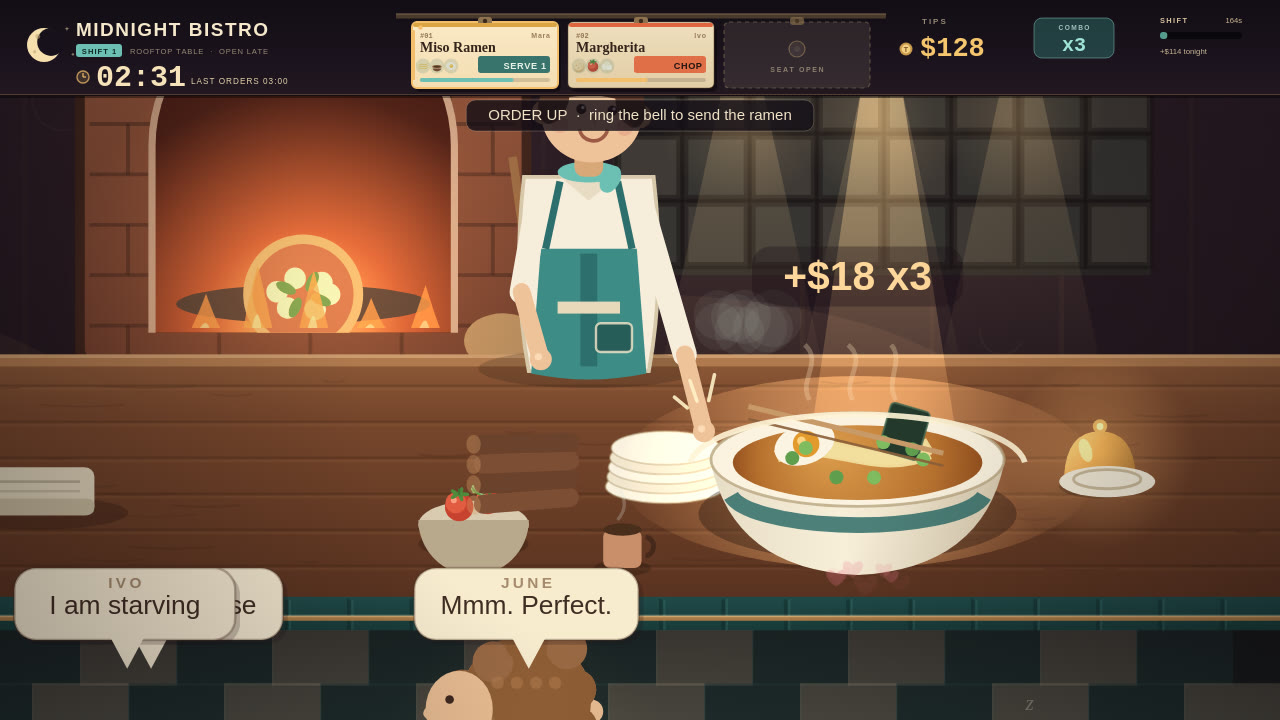
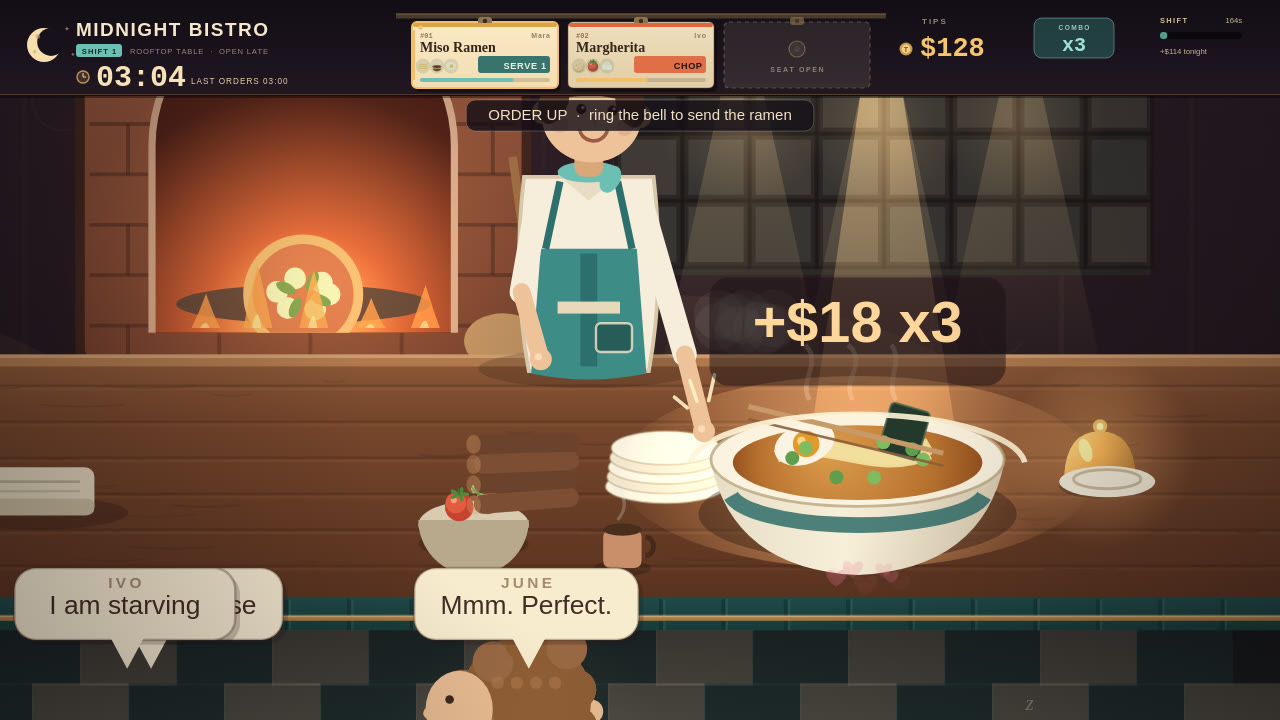
Cover: the ladle is still saucing the pizza, and the shift clock advances across the four shots

Changed region(s): [[0.5312, 0.3361, 0.8125, 0.55], [0.0938, 0.0917, 0.1562, 0.1222]]

diff --git a/game/src/render.js b/game/src/render.js
@@ -1071,49 +1071,57 @@ function drawPizza(ctx, x, y, r, game) {
   // a few basil bits waiting beside it
   drawIngredient(ctx, 'basil', x + r * 0.9, y - r * 0.5, 6);
   drawIngredient(ctx, 'basil', x - r * 0.85, y - r * 0.45, 5);
-  // the cover catches the pizza half-built: one quarter is sauce waiting for cheese, a slice is on its way down
+  // the cover catches the pizza half-built: the lower-right quarter is sauce only, and the ladle is still over it
   if (game.shot === 'cover') {
-    // one quarter is still bare dough: the sauce has not been spread there yet
     ctx.save();
     ctx.beginPath();
     ctx.moveTo(x, y);
-    ctx.ellipse(x, y, r * 0.78, r * 0.7, 0, Math.PI * 1.46, Math.PI * 1.96);
+    ctx.ellipse(x, y, r * 0.78, r * 0.7, 0, 0, Math.PI * 0.5);
     ctx.closePath();
     ctx.clip();
-    const raw = ctx.createRadialGradient(x + r * 0.1, y - r * 0.3, 2, x, y, r);
-    raw.addColorStop(0, '#f2d6a0');
-    raw.addColorStop(0.7, '#e6c184');
-    raw.addColorStop(1, '#d8ae70');
+    const raw = ctx.createRadialGradient(x + r * 0.1, y + r * 0.1, 2, x, y, r);
+    raw.addColorStop(0, '#dd6a4f');
+    raw.addColorStop(1, '#b8432e');
     ctx.fillStyle = raw;
     ctx.fillRect(x - r, y - r, r * 2, r * 2);
-    // flour dust on the bare dough
-    ctx.fillStyle = withAlpha('#fff6e0', 0.5);
-    for (let i = 0; i < 7; i++) {
-      const a = -1.35 + i * 0.14;
-      circle(ctx, x + Math.cos(a) * r * (0.3 + (i % 3) * 0.12), y + Math.sin(a) * r * (0.26 + (i % 2) * 0.1), 0.9, withAlpha('#fff6e0', 0.45));
-    }
     ctx.restore();
-    // a cheese torn and a basil leaf dropping onto the bare quarter
-    const drops = [
-      [x + r * 0.3, y - r * 0.3, '#fbf5e6', 0.15, -1.15],
-      [x + r * 0.47, y - r * 0.08, '#5f9945', 0.11, -0.7],
-    ];
-    for (const [tx, ty, col, rad, rot] of drops) {
-      ctx.save();
-      ctx.strokeStyle = withAlpha('#f6e8cb', 0.55);
-      ctx.lineWidth = 1.3;
-      ctx.beginPath();
-      ctx.moveTo(tx, ty - r * 0.34);
-      ctx.lineTo(tx - 1, ty - r * 0.16);
-      ctx.stroke();
-      ctx.translate(tx, ty);
-      ctx.rotate(rot);
-      ctx.fillStyle = col;
-      ctx.beginPath();
-      ctx.ellipse(0, 0, r * rad, r * rad * 0.72, 0, 0, Math.PI * 2);
-      ctx.fill();
-      ctx.restore();
-    }
+    // the ladle, still pouring the last of the sauce into the bare quarter
+    ctx.save();
+    ctx.translate(x + r * 0.5, y + r * 0.02);
+    ctx.rotate(0.5);
+    ctx.strokeStyle = '#7d532f';
+    ctx.lineWidth = 4.2;
+    ctx.lineCap = 'round';
+    ctx.beginPath();
+    ctx.moveTo(r * 0.62, -r * 0.58);
+    ctx.lineTo(r * 0.14, -r * 0.08);
+    ctx.stroke();
+    ctx.strokeStyle = withAlpha('#c99a63', 0.75);
+    ctx.lineWidth = 1.4;
+    ctx.beginPath();
+    ctx.moveTo(r * 0.6, -r * 0.56);
+    ctx.lineTo(r * 0.16, -r * 0.1);
+    ctx.stroke();
+    ctx.fillStyle = '#9aa3ab';
+    ctx.beginPath();
+    ctx.ellipse(0, 0, r * 0.24, r * 0.13, 0, 0, Math.PI * 2);
+    ctx.fill();
+    ctx.fillStyle = '#c4ccd2';
+    ctx.beginPath();
+    ctx.ellipse(-r * 0.02, -r * 0.02, r * 0.2, r * 0.1, 0, 0, Math.PI * 2);
+    ctx.fill();
+    ctx.fillStyle = '#c9523a';
+    ctx.beginPath();
+    ctx.ellipse(-r * 0.02, -r * 0.01, r * 0.15, r * 0.07, 0, 0, Math.PI * 2);
+    ctx.fill();
+    ctx.fillStyle = '#cf5a3f';
+    ctx.beginPath();
+    ctx.moveTo(-r * 0.1, r * 0.05);
+    ctx.quadraticCurveTo(-r * 0.16, r * 0.3, -r * 0.06, r * 0.42);
+    ctx.quadraticCurveTo(-r * 0.02, r * 0.28, -r * 0.02, r * 0.06);
+    ctx.closePath();
+    ctx.fill();
+    ctx.restore();
   }
   ctx.restore();
 }
@@ -2049,10 +2057,14 @@ function drawPopups(ctx, game) {
     const a = Math.min(1, p.t / 0.5);
     ctx.save();
     ctx.globalAlpha = a;
-    ctx.fillStyle = withAlpha('#1a1114', 0.35);
-    rr(ctx, p.x - 44, p.y - 18, 88, 25, 8);
+    const size = p.size || 17;
+    ctx.font = `700 ${size}px ${FONT.ui}`;
+    const tw = ctx.measureText(p.text).width;
+    const bw = tw + size * 1.5;
+    ctx.fillStyle = withAlpha('#1a1114', 0.5);
+    rr(ctx, p.x - bw / 2, p.y - size - 3, bw, size + 21, 8);
     ctx.fill();
-    text(ctx, p.text, p.x, p.y, 17, p.color, { weight: 700, align: 'center', font: 'ui' });
+    text(ctx, p.text, p.x, p.y, size, p.color, { weight: 700, align: 'center', font: 'ui' });
     ctx.restore();
   }
 }

diff --git a/game/src/shots.js b/game/src/shots.js
@@ -98,7 +98,7 @@ export function stageShot(game, kind, seed = 7) {
     game.camera = createCamera(400, 446, 2.75);
     game.tips = 128;
     game.combo = 3;
-    game.clockMinutes = 185;
+    game.clockMinutes = 172;
     emitFlour(game, 386, 486, 26);
     emitBits(game, 392, 486, '#6ea84f', 7);
     emitSteam(game, 674, 404, 4, 10, { a: 0.13 });
@@ -120,7 +120,7 @@ export function stageShot(game, kind, seed = 7) {
       o0.quality = null;
     }
     game.camera = createCamera(646, 436, 2.7);
-    game.clockMinutes = 176;
+    game.clockMinutes = 178;
     emitSteam(game, 674, 402, 12, 12, { a: 0.2 });
     emitSteam(game, 578, 424, 6, 16, { a: 0.12 });
     emitSpark(game, 566, 440, 8);
@@ -138,9 +138,9 @@ export function stageShot(game, kind, seed = 7) {
     game.combo = 3;
     game.tipsEarned = 114;
     game.served = 3;
-    game.clockMinutes = 151;
+    game.clockMinutes = 184;
     game.lastTip = { amount: 18, mult: 3, t: 2.1, slot: 2 };
-    addPopup(game, '+$18 x3', 1104, 424, '#ffd79a');
+    addPopup(game, '+$18 x3', 1104, 446, '#ffd79a', { size: 24 });
     emitHearts(game, 1104, 566, 7);
     emitCoins(game, 1104, 596, 1104, 54, 4);
     emitSteam(game, 1058, 452, 8, 14, { a: 0.16 });

diff --git a/game/src/cooking.js b/game/src/cooking.js
@@ -338,8 +338,8 @@ export function serveSlot(game, slot) {
   return tip;
 }
 
-export function addPopup(game, text, x, y, color = PAL.gold) {
-  game.popups.push({ text, x, y, color, t: 2.2, max: 2.2, vy: -18 });
+export function addPopup(game, text, x, y, color = PAL.gold, opts = {}) {
+  game.popups.push({ text, x, y, color, t: 2.2, max: 2.2, vy: -18, ...opts });
   if (game.popups.length > 10) game.popups.shift();
 }
 
